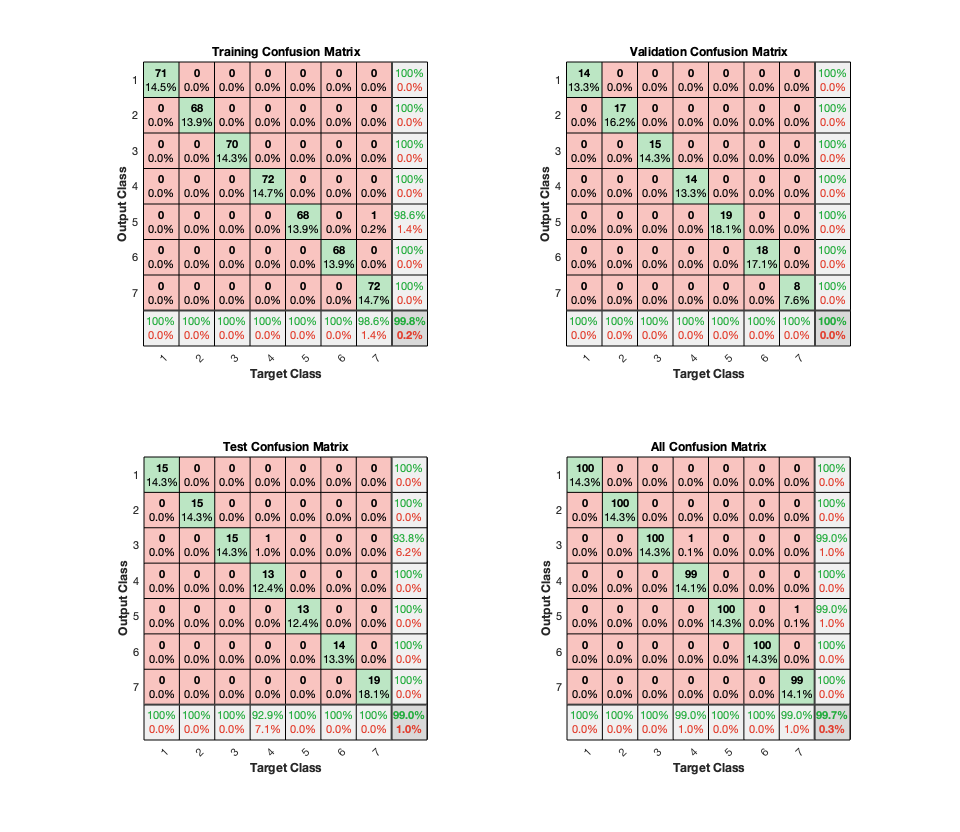
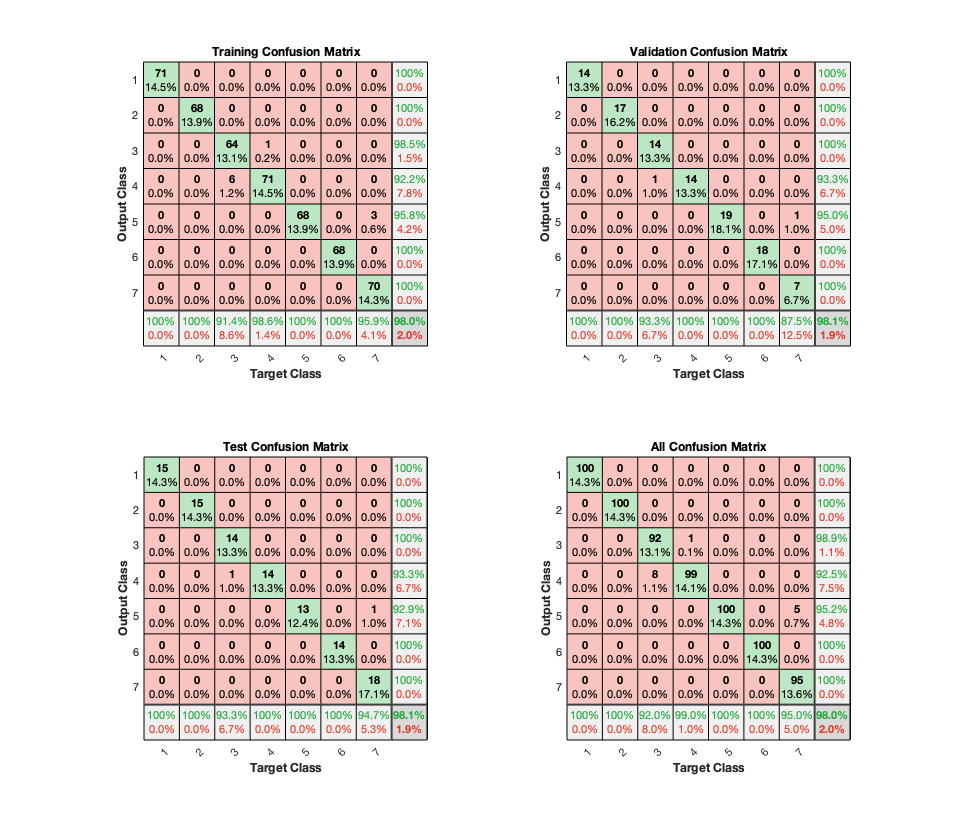
Implement the 3-layer patternnet based on the top 3 feature averages on the CWRU data set, load=2HP

diff --git a/src/models/CWRU/c_top3_average_patternnet.m b/src/models/CWRU/c_top3_average_patternnet.m
@@ -5,41 +5,41 @@ F_stacked = zeros(Z, M);
 F_avg = zeros(3, M);
 
 % load the CWRU data set, and average EEMD feature #5
-load('data/processed/CWRU/a_EEMD_F5_z0.mat');
+load('data/processed/CWRU/c_EEMD_F5_z0.mat');
 F_stacked(1, :) = F;
-load('data/processed/CWRU/a_EEMD_F5_z0.5.mat');
+load('data/processed/CWRU/c_EEMD_F5_z0.5.mat');
 F_stacked(2, :) = F;
-load('data/processed/CWRU/a_EEMD_F5_z1.mat');
+load('data/processed/CWRU/c_EEMD_F5_z1.mat');
 F_stacked(3, :) = F;
-load('data/processed/CWRU/a_EEMD_F5_z1.5.mat');
+load('data/processed/CWRU/c_EEMD_F5_z1.5.mat');
 F_stacked(4, :) = F;
-load('data/processed/CWRU/a_EEMD_F5_z2.mat');
+load('data/processed/CWRU/c_EEMD_F5_z2.mat');
 F_stacked(5, :) = F;
 F_avg(1, :) = mean(F_stacked, 1);
 
 % load the CWRU data set, and average EEMD feature #6
-load('data/processed/CWRU/a_EEMD_F6_z0.mat');
+load('data/processed/CWRU/c_EEMD_F6_z0.mat');
 F_stacked(1, :) = F;
-load('data/processed/CWRU/a_EEMD_F6_z0.5.mat');
+load('data/processed/CWRU/c_EEMD_F6_z0.5.mat');
 F_stacked(2, :) = F;
-load('data/processed/CWRU/a_EEMD_F6_z1.mat');
+load('data/processed/CWRU/c_EEMD_F6_z1.mat');
 F_stacked(3, :) = F;
-load('data/processed/CWRU/a_EEMD_F6_z1.5.mat');
+load('data/processed/CWRU/c_EEMD_F6_z1.5.mat');
 F_stacked(4, :) = F;
-load('data/processed/CWRU/a_EEMD_F6_z2.mat');
+load('data/processed/CWRU/c_EEMD_F6_z2.mat');
 F_stacked(5, :) = F;
 F_avg(2, :) = mean(F_stacked, 1);
 
 % load the CWRU data set, and average frequency-domain feature #14
-load('data/processed/CWRU/a_stats_F14_freq_z0.mat');
+load('data/processed/CWRU/c_stats_F14_freq_z0.mat');
 F_stacked(1, :) = F;
-load('data/processed/CWRU/a_stats_F14_freq_z0.5.mat');
+load('data/processed/CWRU/c_stats_F14_freq_z0.5.mat');
 F_stacked(2, :) = F;
-load('data/processed/CWRU/a_stats_F14_freq_z1.mat');
+load('data/processed/CWRU/c_stats_F14_freq_z1.mat');
 F_stacked(3, :) = F;
-load('data/processed/CWRU/a_stats_F14_freq_z1.5.mat');
+load('data/processed/CWRU/c_stats_F14_freq_z1.5.mat');
 F_stacked(4, :) = F;
-load('data/processed/CWRU/a_stats_F14_freq_z2.mat');
+load('data/processed/CWRU/c_stats_F14_freq_z2.mat');
 F_stacked(5, :) = F;
 F_avg(3, :) = mean(F_stacked, 1);
 
